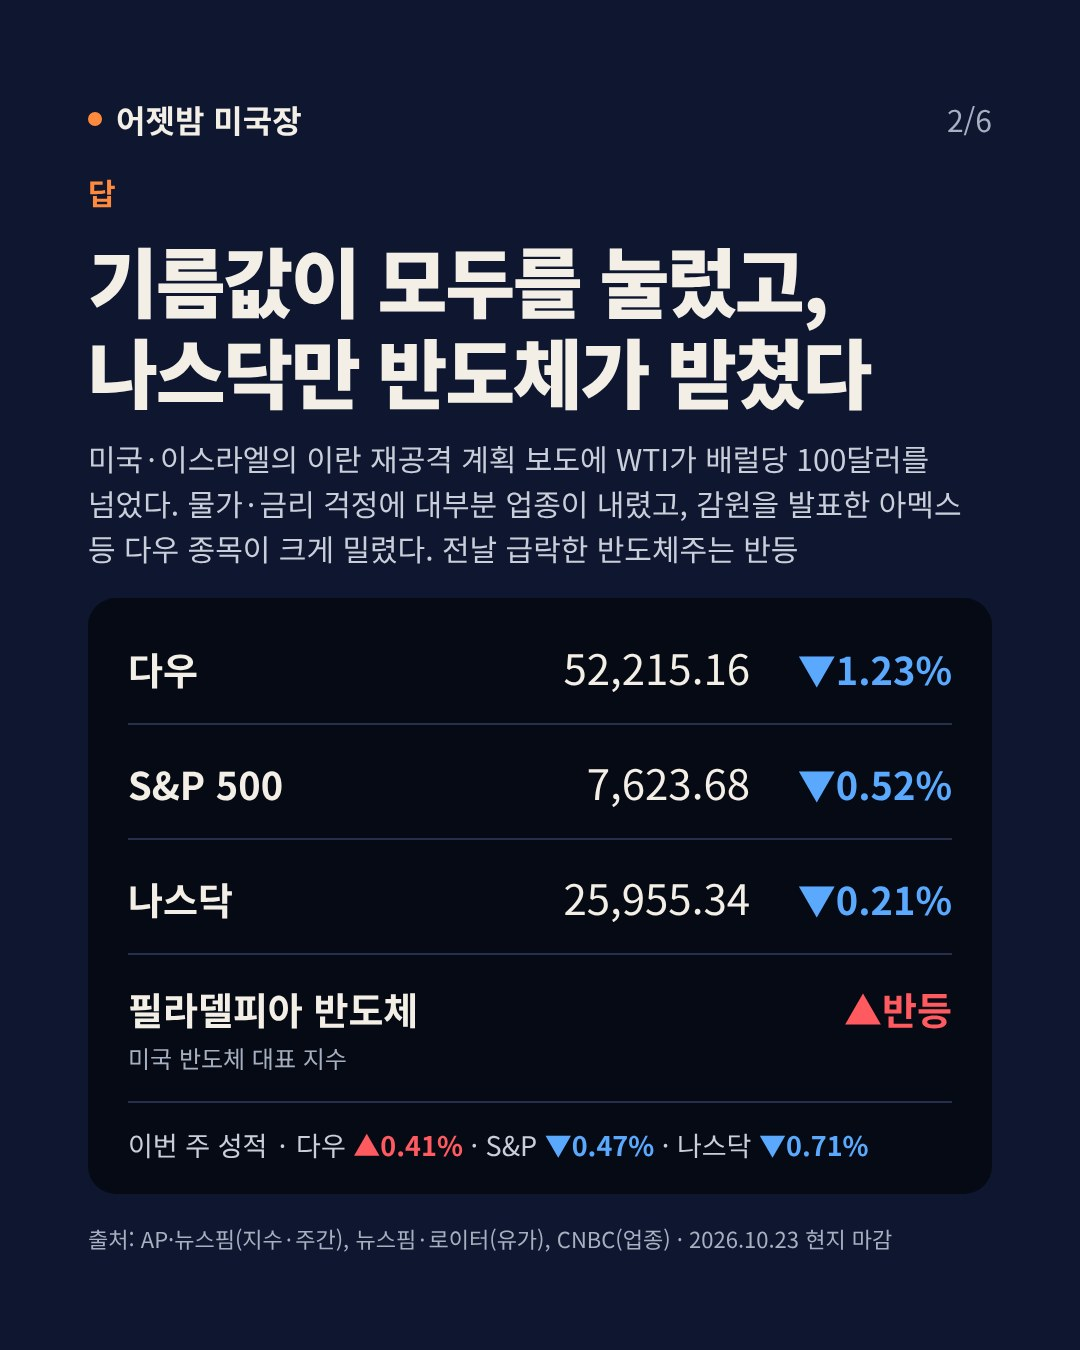
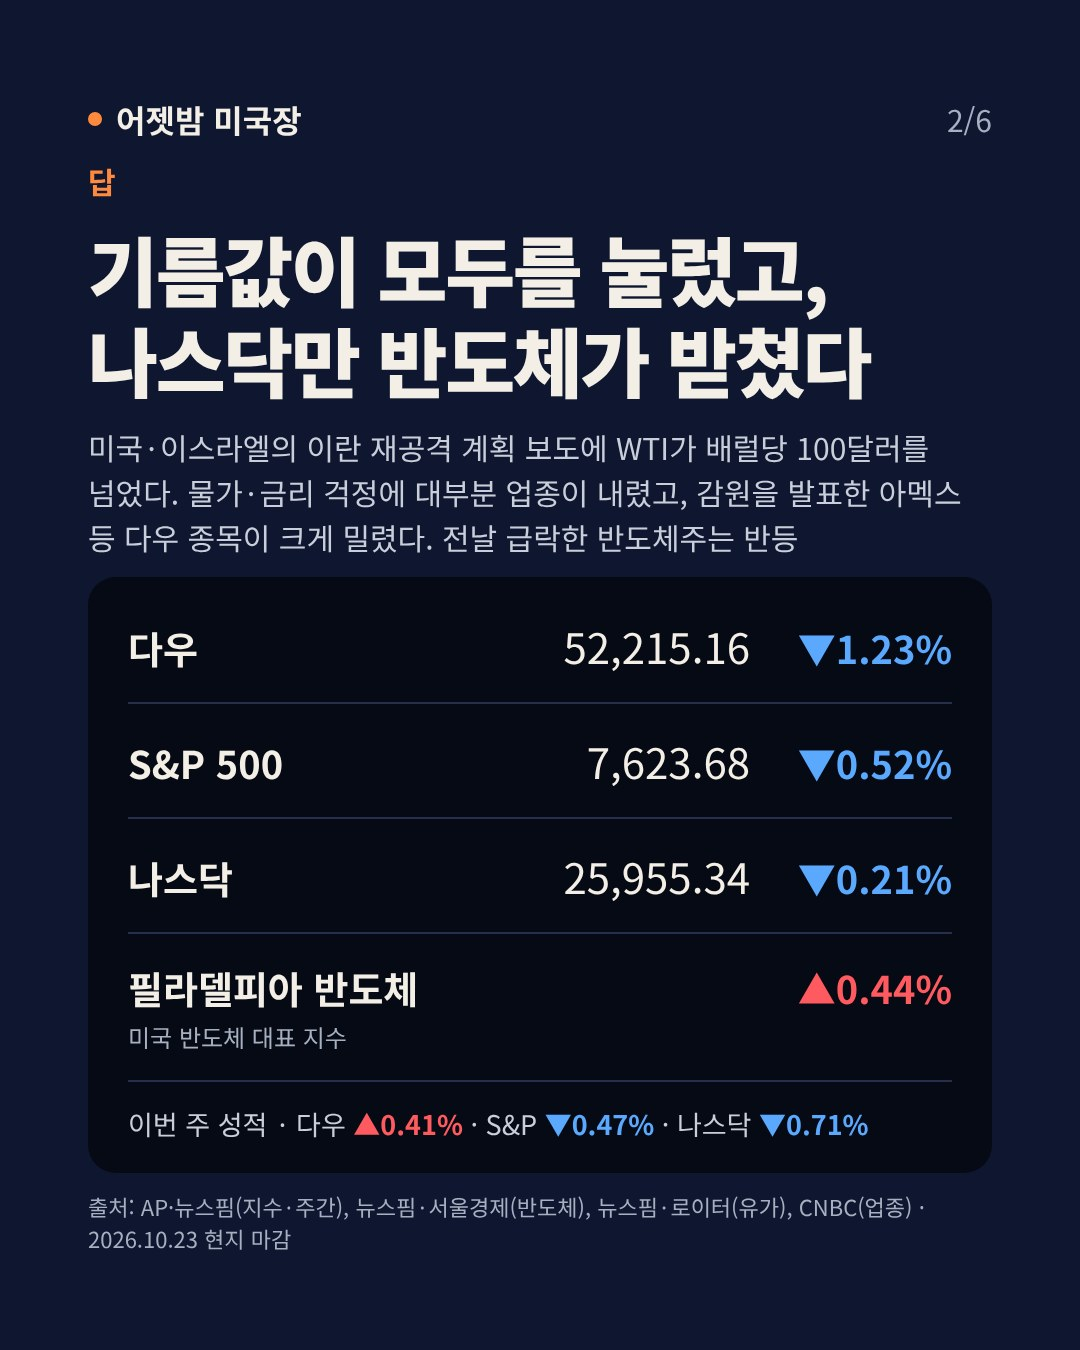
post: 2026-10-24
반도체지수 ▲0.44%·마이크론 ▲2.46% 두 번째 출처(서울경제) 확인 후 반영

Claude-Session: https://claude.ai/code/session_017TtZUP4xxwxK4SYRQvvpVv

Changed region(s): [[0.0611, 0.1244, 0.9167, 0.6844], [0.0611, 0.7156, 0.9167, 0.9333], [0.7333, 0.7156, 0.8861, 0.7778]]

diff --git a/posts/2026-10-24/src/2.html b/posts/2026-10-24/src/2.html
@@ -20,10 +20,10 @@
 <div style="display: flex; justify-content: space-between; align-items: baseline; border-bottom: 2px solid #26304D; padding: 26px 0"><div style="font-size: 38px; font-weight: 700">다우</div><div style="display: flex; gap: 32px; align-items: baseline"><div style="font-size: 42px">52,215.16</div><div style="width: 170px; text-align: right; font-size: 38px; font-weight: 700; color: #5AA9FF">▼1.23%</div></div></div>
 <div style="display: flex; justify-content: space-between; align-items: baseline; border-bottom: 2px solid #26304D; padding: 26px 0"><div style="font-size: 38px; font-weight: 700">S&amp;P 500</div><div style="display: flex; gap: 32px; align-items: baseline"><div style="font-size: 42px">7,623.68</div><div style="width: 170px; text-align: right; font-size: 38px; font-weight: 700; color: #5AA9FF">▼0.52%</div></div></div>
 <div style="display: flex; justify-content: space-between; align-items: baseline; border-bottom: 2px solid #26304D; padding: 26px 0"><div style="font-size: 38px; font-weight: 700">나스닥</div><div style="display: flex; gap: 32px; align-items: baseline"><div style="font-size: 42px">25,955.34</div><div style="width: 170px; text-align: right; font-size: 38px; font-weight: 700; color: #5AA9FF">▼0.21%</div></div></div>
-<div style="display: flex; justify-content: space-between; align-items: baseline; padding: 26px 0"><div style="display: flex; flex-direction: column; gap: 4px"><div style="font-size: 38px; font-weight: 700">필라델피아 반도체</div><div style="font-size: 24px; color: #A7B0C0">미국 반도체 대표 지수</div></div><div style="text-align: right; font-size: 38px; font-weight: 700; color: #FF5A5F">▲반등</div></div>
+<div style="display: flex; justify-content: space-between; align-items: baseline; padding: 26px 0"><div style="display: flex; flex-direction: column; gap: 4px"><div style="font-size: 38px; font-weight: 700">필라델피아 반도체</div><div style="font-size: 24px; color: #A7B0C0">미국 반도체 대표 지수</div></div><div style="text-align: right; font-size: 38px; font-weight: 700; color: #FF5A5F">▲0.44%</div></div>
 <div style="border-top: 2px solid #26304D; padding: 22px 0 18px; font-size: 27px; color: #C9CFDA">이번 주 성적 · 다우 <span style="color: #FF5A5F; font-weight: 700">▲0.41%</span> · S&amp;P <span style="color: #5AA9FF; font-weight: 700">▼0.47%</span> · 나스닥 <span style="color: #5AA9FF; font-weight: 700">▼0.71%</span></div>
 </div>
-<div style="font-size: 22px; color: #A7B0C0">출처: AP·뉴스핌(지수·주간), 뉴스핌·로이터(유가), CNBC(업종) · 2026.10.23 현지 마감</div>
+<div style="font-size: 22px; color: #A7B0C0">출처: AP·뉴스핌(지수·주간), 뉴스핌·서울경제(반도체), 뉴스핌·로이터(유가), CNBC(업종) · 2026.10.23 현지 마감</div>
 </div>
 </body>
 </html>

diff --git a/posts/2026-10-24/src/4.html b/posts/2026-10-24/src/4.html
@@ -21,10 +21,10 @@
 </div>
 </div>
 <div style="display: grid; grid-template-columns: repeat(2, minmax(0, 1fr)); gap: 16px">
-<div style="background: rgba(255,255,255,0.1); border-radius: 24px; padding: 28px; display: flex; flex-direction: column; gap: 10px"><div style="font-size: 26px; font-weight: 900; color: #FFB27F">반도체</div><div style="font-size: 30px; font-weight: 700; line-height: 1.4">마이크론·AMD <span style="color: #FF8A8F">▲상승</span></div><div style="font-size: 24px; color: #E8E0F2; line-height: 1.5">전날 급락 뒤 반도체주 반등<br>하락장 속 버팀목</div></div>
+<div style="background: rgba(255,255,255,0.1); border-radius: 24px; padding: 28px; display: flex; flex-direction: column; gap: 10px"><div style="font-size: 26px; font-weight: 900; color: #FFB27F">반도체</div><div style="font-size: 30px; font-weight: 700; line-height: 1.4">마이크론 <span style="color: #FF8A8F">▲2.46%</span></div><div style="font-size: 24px; color: #E8E0F2; line-height: 1.5">전날 급락 뒤 반도체주 반등<br>하락장 속 버팀목</div></div>
 <div style="background: rgba(255,255,255,0.1); border-radius: 24px; padding: 28px; display: flex; flex-direction: column; gap: 10px"><div style="font-size: 26px; font-weight: 900; color: #FFB27F">미국 통신주</div><div style="font-size: 30px; font-weight: 700; line-height: 1.4">스페이스X에 급락</div><div style="font-size: 24px; color: #E8E0F2; line-height: 1.5">이동통신 진출 보도에<br>AT&amp;T·T모바일 약세</div></div>
 </div>
-<div style="font-size: 22px; color: #CFC4E0; line-height: 1.5">출처: 뉴스핌, 로이터, 한국경제 · 2026.10.23 현지</div>
+<div style="font-size: 22px; color: #CFC4E0; line-height: 1.5">출처: 뉴스핌, 서울경제, 로이터, 한국경제 · 2026.10.23 현지</div>
 </div>
 </body>
 </html>

diff --git a/posts/2026-10-24/sources.md b/posts/2026-10-24/sources.md
@@ -9,8 +9,8 @@
 | 나스닥 | 25,955.34 ▼53.52 (▼0.21%) | AP(25,955.34, −53.52, 0.2%), 뉴스핌(2만5955.34, 53.52, 0.21%) · 검산: 26,008.86−53.52=25,955.34, 0.206% |
 | 3대 지수 중 다우 낙폭 최대 | — | 위 수치(1.23 > 0.52 > 0.21), 파이낸셜뉴스(보조, "다우가 가장 크게") |
 | 주간: 다우 ▲0.41% · S&P ▼0.47% · 나스닥 ▼0.71% | | AP(다우 +212.75 0.4%, S&P −35.76 0.5%, 나스닥 −184.69 0.7%), 뉴스핌(다우 0.41%↑, S&P 0.47%↓, 나스닥 0.71%↓) · 검산: 212.75/52,002.41=0.409%, 35.76/7,659.44=0.467%, 184.69/26,140.03=0.707% |
-| 필라델피아 반도체지수 반등(상승) | 방향만 | 뉴스핌(0.44% 상승, 전날 급락 후 반등), 파이낸셜뉴스(반도체 반등), 로이터(야후 게재, 장중 "tech stocks steady") — 0.44%는 허용 출처 1곳뿐 → 숫자 미기재 |
-| 마이크론·AMD 상승 | 방향만 | 뉴스핌(마이크론 2.46%, AMD 1.74% 상승), AP 장중(마이크론 3.5%↑), 파이낸셜뉴스(보조, 2.46%/1.74%) — 등락률은 허용 출처 1곳 → 미기재 |
+| 필라델피아 반도체지수 | ▲0.44% | 뉴스핌(0.44% 상승, 전날 급락 후 반등), 서울경제 데일리국제금융 10/24 05:57(0.44% 상승) |
+| 마이크론 ▲2.46% | ▲2.46% | 뉴스핌(2.46%), 서울경제 데일리국제금융(2.46%), 파이낸셜뉴스(보조) |
 | 대부분 업종 하락 | — | CNBC 제목(sell-off hits most sectors), 뉴스핌(기술주 매도세가 다른 업종으로 번져), AP 장중(S&P500 종목 5개 중 4개 하락) |
 | 아멕스 감원 발표 후 하락 (다우 종목) | 등락률 미기재 | 뉴스핌(3.73%↓, 인력 5% 감원), 키플링어(보조, 3.7%↓) |
 | WTI 배럴당 100달러 돌파(넘어) | 100달러 | 뉴스핌(3% 넘게 올라 배럴당 103달러 선), 로이터(장중 103.22달러), 키플링어·야후(보조, 103.27/103.16) — 정확한 정산가는 허용 출처 2곳 일치 확인 못 해 "100달러 돌파"로만 |
@@ -29,8 +29,8 @@
 | 원/달러 (10/23 서울 주간 종가) | 1,324.6원 ▲0.4원, 6거래일 만에 상승 | SBS Biz(0.4원 오른 1324.6원, 15:30 기준), 뉴스핌(6거래일 만에 상승), 파이낸셜뉴스(보조, 0.4원 오른 1324.6원) · 검산: 1,324.2+0.4=1,324.6 (10/22 종가 1,324.2원) |
 
 ## 뺀 수치·표현
-- 필라델피아 반도체지수 등락률(0.44%): 허용 출처는 뉴스핌 1곳 → '반등'으로만.
-- 마이크론(2.46%)·AMD(1.74%) 등락률: 허용 출처 뉴스핌 1곳(파이낸셜뉴스는 허용 외) → '상승'으로만.
+- (06:00 갱신) 서울경제 데일리국제금융이 나와 반도체지수 0.44%·마이크론 2.46%를 2곳 일치로 추가(카드 2·4장, 캡션). 릴스는 숫자 없이 "반등"만 사용.
+- 유가 정산가(서울경제: 브렌트 116.72달러 ▲3.14%, WTI 103.27달러 ▲3.82%): 다른 허용 출처와 정확히 대조 못 해 계속 미기재.
 - WTI·브렌트 정산가(야후 브렌트 116.72달러, WTI 103.16~103.27달러): 허용 출처 2곳 일치 확인 못 함 → 'WTI 100달러 돌파', '브렌트 4월 말 이후 최고'로만.
 - 미 10년물 국채금리: 뉴스핌 4.984%, AP 장중 5.00%, 키플링어 5.001%로 엇갈림 → 미기재.
 - 통신주 등락률(AT&T 7.96%↓ 등): 마감 수치는 뉴스핌 1곳 → '급락'으로만.
@@ -54,3 +54,4 @@
 - https://www.news1.kr/finance/general-stock/6330143 (뉴스1 코스피 마감)
 - https://biz.sbs.co.kr/article/20000341863 (SBS Biz 환율)
 - https://www.newspim.com/news/view/20261023001156 (뉴스핌 환율 6거래일 만에 상승)
+- https://m.sedaily.com/article/20105592 (서울경제 데일리국제금융 10/24 05:57 — 지수·반도체·유가·통신주)
